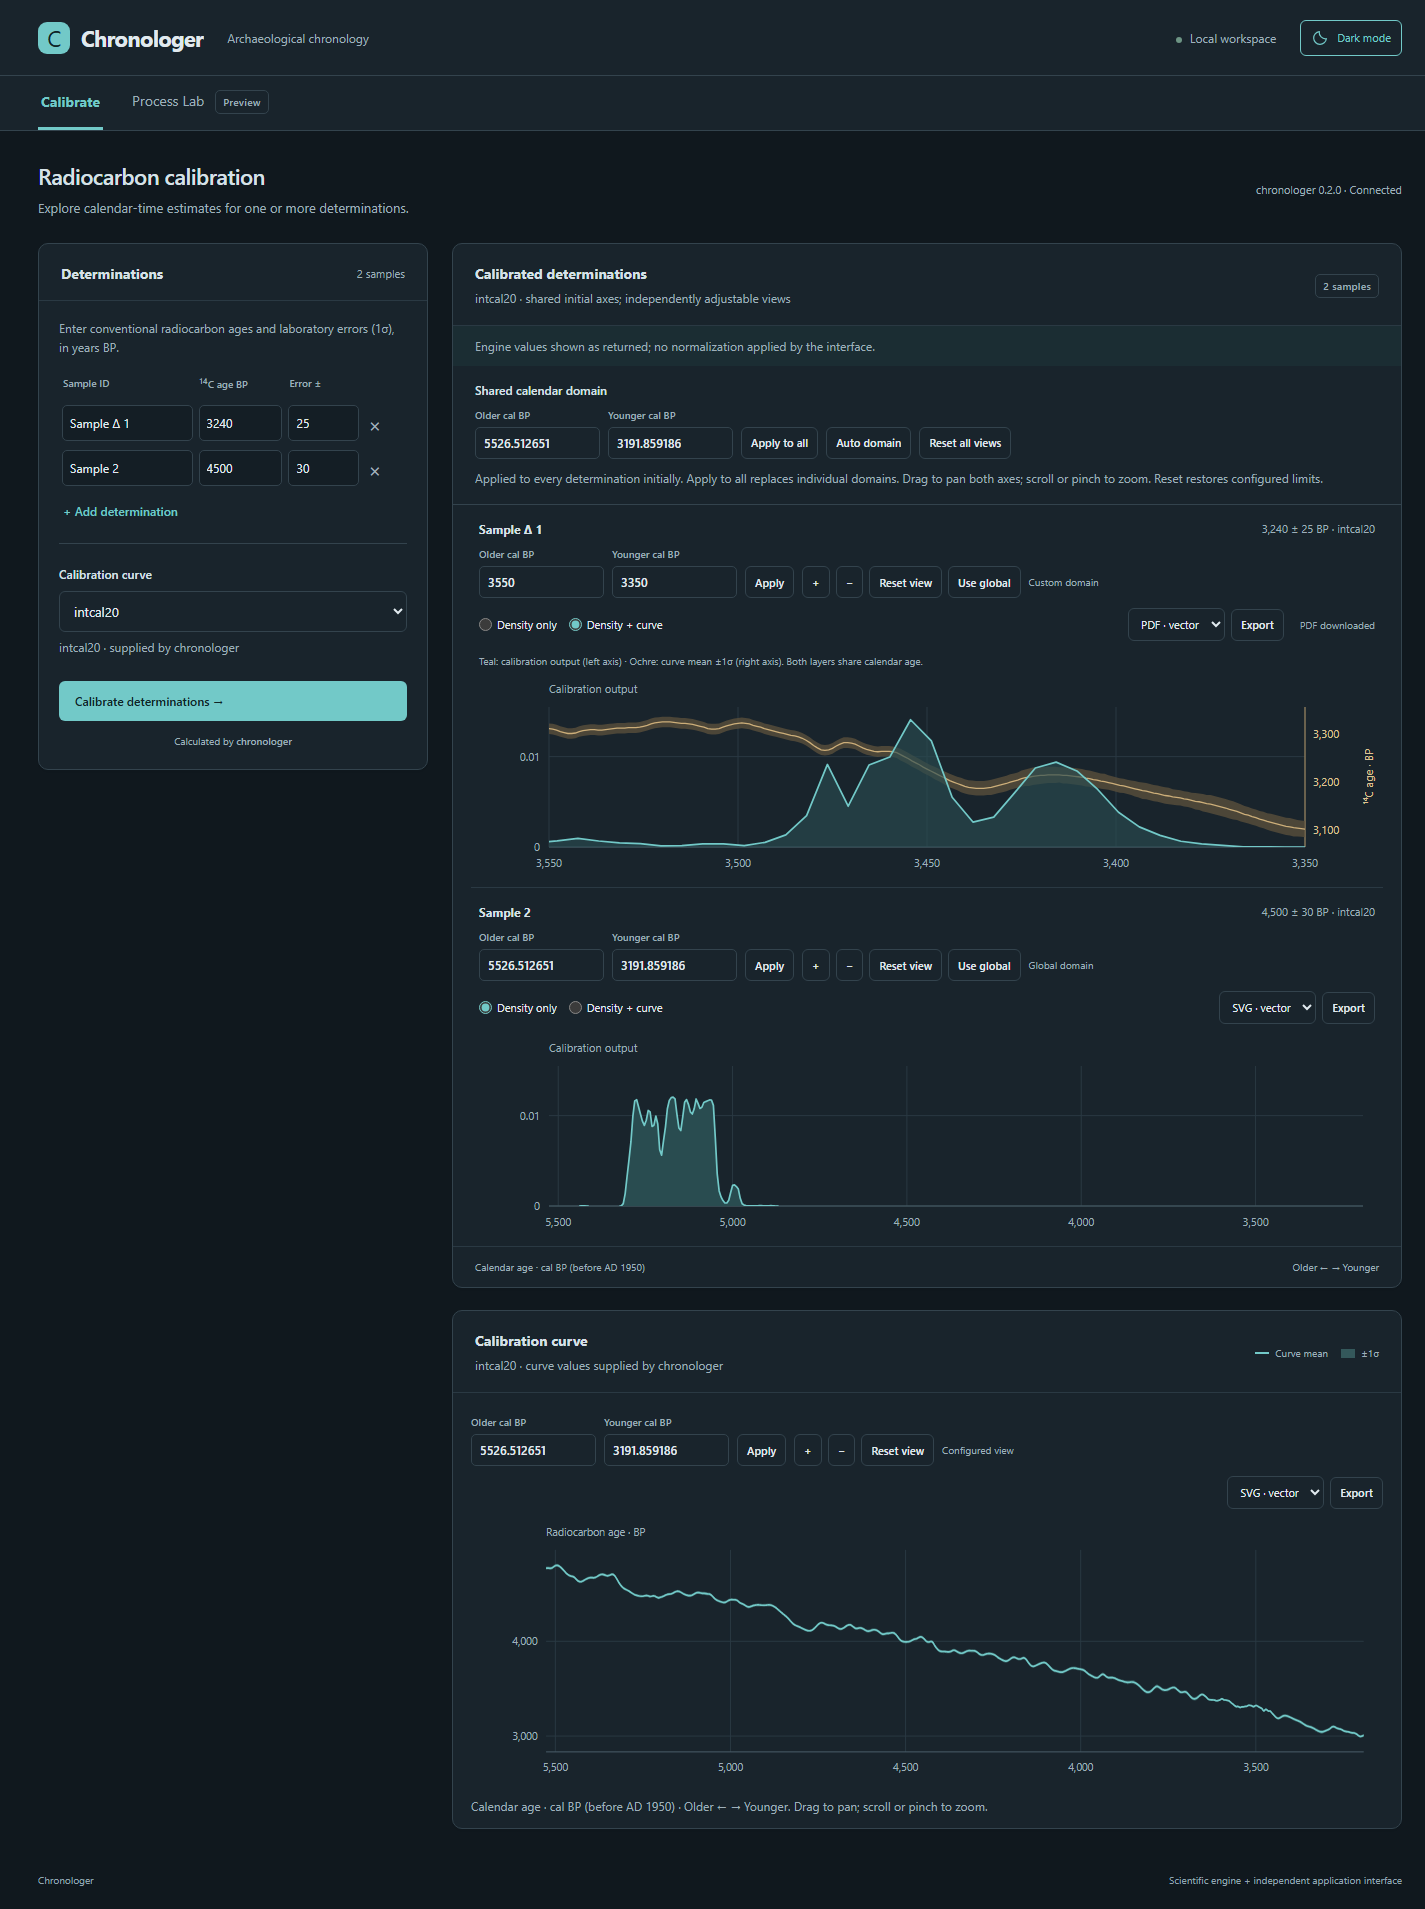
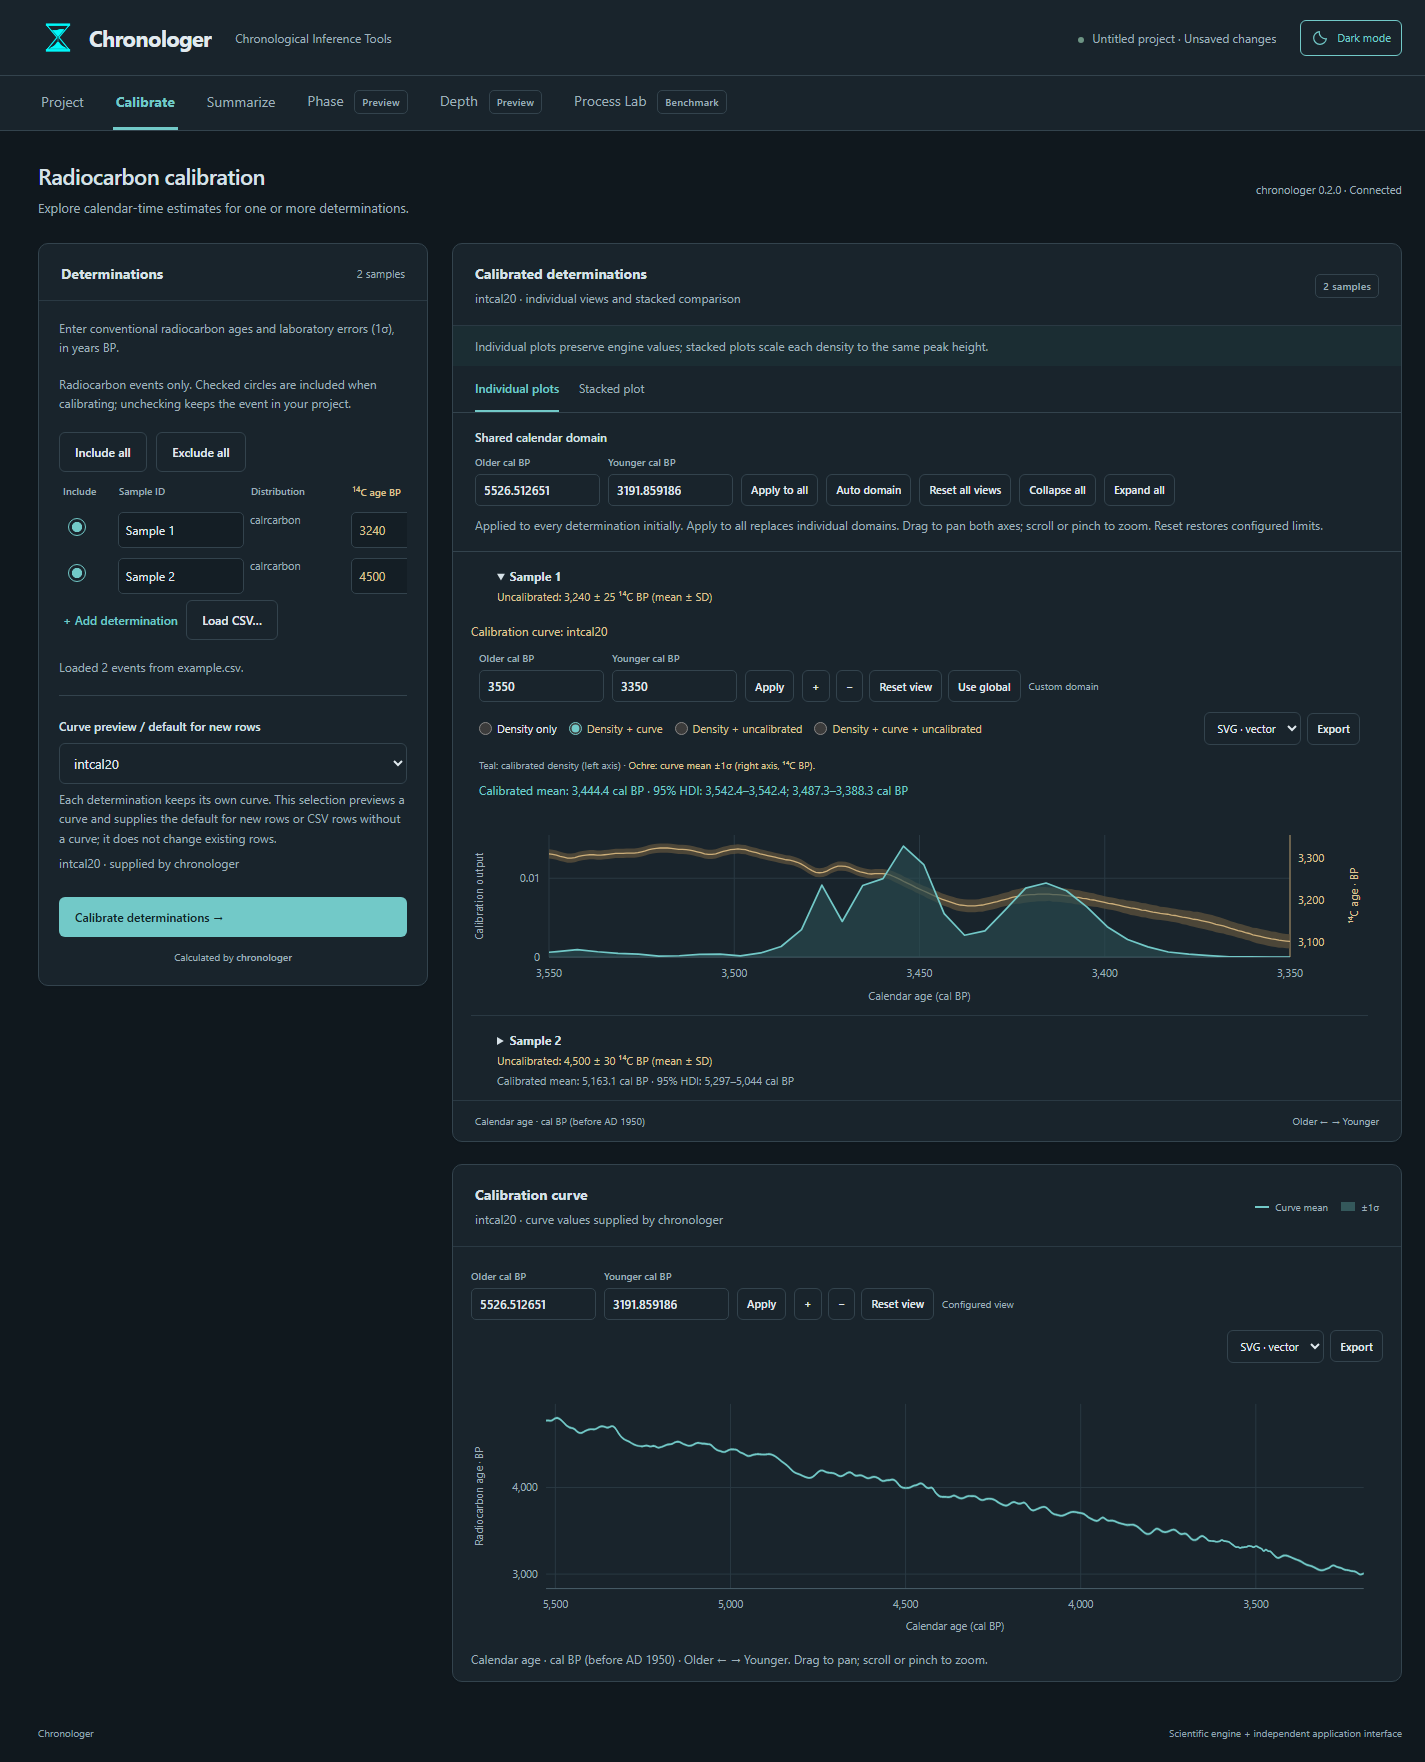
Refresh website screenshot from current calibration workspace

diff --git a/site/index.html b/site/index.html
@@ -34,7 +34,7 @@
     <section class="wrap workspace" aria-labelledby="workspace-title">
       <div class="section-heading"><h2 id="workspace-title">A workspace for archaeological time</h2><span>Calibrate · Model · Inspect</span></div>
       <figure>
-        <a href="assets/calibration.png" aria-label="View the full calibration screenshot"><img class="screenshot" src="assets/calibration.png" alt="Chronologer calibration workspace showing radiocarbon determinations, calibrated date distributions, and the IntCal20 curve." width="1425" height="1909" loading="lazy"></a>
+        <a href="assets/calibration.png" aria-label="View the full calibration screenshot"><img class="screenshot" src="assets/calibration.png" alt="Current Chronologer calibration workspace with project tabs, per-event calibration controls, a calibrated date distribution with an IntCal20 overlay, and a calibration curve preview." width="1425" height="1762" loading="lazy"></a>
         <figcaption>Radiocarbon calibration with uncertainty and curve overlays. An example from the application.</figcaption>
       </figure>
     </section>

diff --git a/site/styles.css b/site/styles.css
@@ -30,7 +30,7 @@ h1 em { font-weight: 400; color: var(--teal); }
 .section-heading h2 { font-size: 26px; margin: 0; }
 .section-heading span { color: var(--muted); font-size: 12px; }
 figure { margin: 0; }
-.screenshot { display: block; width: 100%; height: auto; max-height: 650px; object-fit: cover; object-position: top; border: 8px solid #203439; border-radius: 10px; box-shadow: 0 18px 42px #183b3d18; }
+.screenshot { display: block; width: 100%; height: auto; border: 8px solid #203439; border-radius: 10px; box-shadow: 0 18px 42px #183b3d18; }
 figcaption { font-size: 12px; color: var(--muted); margin-top: 17px; }
 .features { display: grid; grid-template-columns: repeat(3, 1fr); gap: 42px; padding-block: 65px; }
 .features h2 { font-size: 27px; line-height: 1.2; margin: 12px 0 16px; }

diff --git a/scripts/capture_site_screenshot.py b/scripts/capture_site_screenshot.py
@@ -1,0 +1,112 @@
+"""Capture the current calibration workspace for the public site using real output.
+
+Run from the repository root in the chronoapp environment (Windows/Chrome).
+Uses an isolated local server and browser profile; no inference is performed.
+"""
+import asyncio
+import base64
+import json
+from pathlib import Path
+import socket
+import subprocess
+import tempfile
+import threading
+import urllib.request
+
+import uvicorn
+from websockets.asyncio.client import connect
+from chronologer_app.main import app
+
+
+async def main():
+    sock = socket.socket()
+    sock.bind(('127.0.0.1', 0))
+    port = sock.getsockname()[1]
+    server = uvicorn.Server(uvicorn.Config(app, log_level='error'))
+    thread = threading.Thread(target=server.run, kwargs={'sockets': [sock]}, daemon=True)
+    thread.start()
+    browser = None
+    try:
+        for _ in range(100):
+            if server.started:
+                break
+            await asyncio.sleep(.1)
+        assert server.started
+        with tempfile.TemporaryDirectory(prefix='chrono-site-') as profile:
+            browser = subprocess.Popen([
+                r'C:\Program Files\Google\Chrome\Application\chrome.exe',
+                '--headless=new', '--disable-gpu', '--no-first-run',
+                '--remote-debugging-port=0', '--user-data-dir=' + profile, 'about:blank',
+            ], stdout=subprocess.DEVNULL, stderr=subprocess.DEVNULL)
+            try:
+                portfile = Path(profile) / 'DevToolsActivePort'
+                for _ in range(100):
+                    if portfile.exists():
+                        break
+                    await asyncio.sleep(.1)
+                debug_port = portfile.read_text().splitlines()[0]
+                pages = json.load(urllib.request.urlopen(f'http://127.0.0.1:{debug_port}/json'))
+                async with connect(next(p['webSocketDebuggerUrl'] for p in pages if p['type'] == 'page'), max_size=30000000) as ws:
+                    seq = 0
+                    async def call(method, **params):
+                        nonlocal seq
+                        seq += 1
+                        await ws.send(json.dumps(dict(id=seq, method=method, params=params)))
+                        while True:
+                            reply = json.loads(await ws.recv())
+                            if reply.get('id') == seq:
+                                assert 'error' not in reply, reply
+                                return reply.get('result', {})
+                    async def js(expression):
+                        reply = await call('Runtime.evaluate', expression=expression, awaitPromise=True, returnByValue=True)
+                        assert 'exceptionDetails' not in reply, reply
+                        return reply.get('result', {}).get('value')
+                    async def wait(expression):
+                        for _ in range(300):
+                            if await js(expression):
+                                return
+                            await asyncio.sleep(.1)
+                        raise AssertionError(expression)
+                    await call('Emulation.setDeviceMetricsOverride', width=1440, height=1100, deviceScaleFactor=1, mobile=False)
+                    await call('Page.navigate', url=f'http://127.0.0.1:{port}')
+                    await wait("!!document.querySelector('#calibrate-button') && !document.querySelector('#calibrate-button').disabled")
+                    await js("""(() => {
+                      const dt = new DataTransfer();
+                      dt.items.add(new File(['id,c14_mean,c14_err,curve\\nSample 1,3240,25,intcal20\\nSample 2,4500,30,intcal20\\n'], 'example.csv', {type:'text/csv'}));
+                      const input = document.querySelector('#csv-file');
+                      input.files = dt.files; input.dispatchEvent(new Event('change'));
+                    })()""")
+                    await wait("document.querySelectorAll('#determination-rows tr').length===2 && !document.querySelector('#calibrate-button').disabled")
+                    await js("document.querySelector('#calibrate-tab').click(); document.querySelector('#calibrate-button').click()")
+                    await wait("document.querySelectorAll('.sample-plot').length===2 && !!document.querySelector('#curve-plot path.data-line')")
+                    await js("""(() => {
+                      if (document.documentElement.dataset.theme !== 'dark') document.querySelector('#theme-toggle').click();
+                      const plot = document.querySelector('.sample-plot');
+                      plot.querySelector('input[value=curve]').click();
+                      plot.querySelector('.domain-older').value = '3550';
+                      plot.querySelector('.domain-younger').value = '3350';
+                      plot.querySelector('.domain-controls').requestSubmit();
+                      document.querySelectorAll('.sample-plot')[1].open = false;
+                      window.scrollTo(0,0);
+                    })()""")
+                    await js("document.fonts.ready")
+                    await asyncio.sleep(.5)
+                    assert await js("document.documentElement.dataset.theme==='dark' && !!document.querySelector('[data-layer=calibration-curve] path')")
+                    metrics = await call('Page.getLayoutMetrics')
+                    size = metrics['cssContentSize']
+                    shot = await call('Page.captureScreenshot', format='png', captureBeyondViewport=True,
+                                      clip=dict(x=0, y=0, width=size['width'], height=size['height'], scale=1))
+                    data = base64.b64decode(shot['data'])
+                    for target in ['docs/screenshots/curve-overlay.png', 'site/assets/calibration.png']:
+                        Path(target).write_bytes(data)
+                    print(f"Captured current calibration workspace: {size['width']} x {size['height']}")
+            finally:
+                browser.terminate()
+                browser.wait(timeout=15)
+    finally:
+        server.should_exit = True
+        thread.join(timeout=15)
+
+
+if __name__ == '__main__':
+    asyncio.run(main())

diff --git a/site/README.md b/site/README.md
@@ -7,5 +7,10 @@ Use relative local links so the site works at the `/chronoapp/` project path.
 
 `assets/chronologer.png` is copied from `frontend/assets/chronologer_icon_light.png`;
 `assets/calibration.png` is copied from `docs/screenshots/curve-overlay.png`.
+Refresh both calibration images from the current application with
+`conda run -n chronoapp python scripts/capture_site_screenshot.py` on Windows
+with Chrome installed. The script calibrates two example determinations using
+the local engine and captures an isolated browser session. If the image size
+changes, update its width and height in `index.html`.
 The download URL is deliberately pinned to `v0.1.0-beta.1` and becomes available
 when that GitHub Release and its Windows ZIP asset are published manually.
